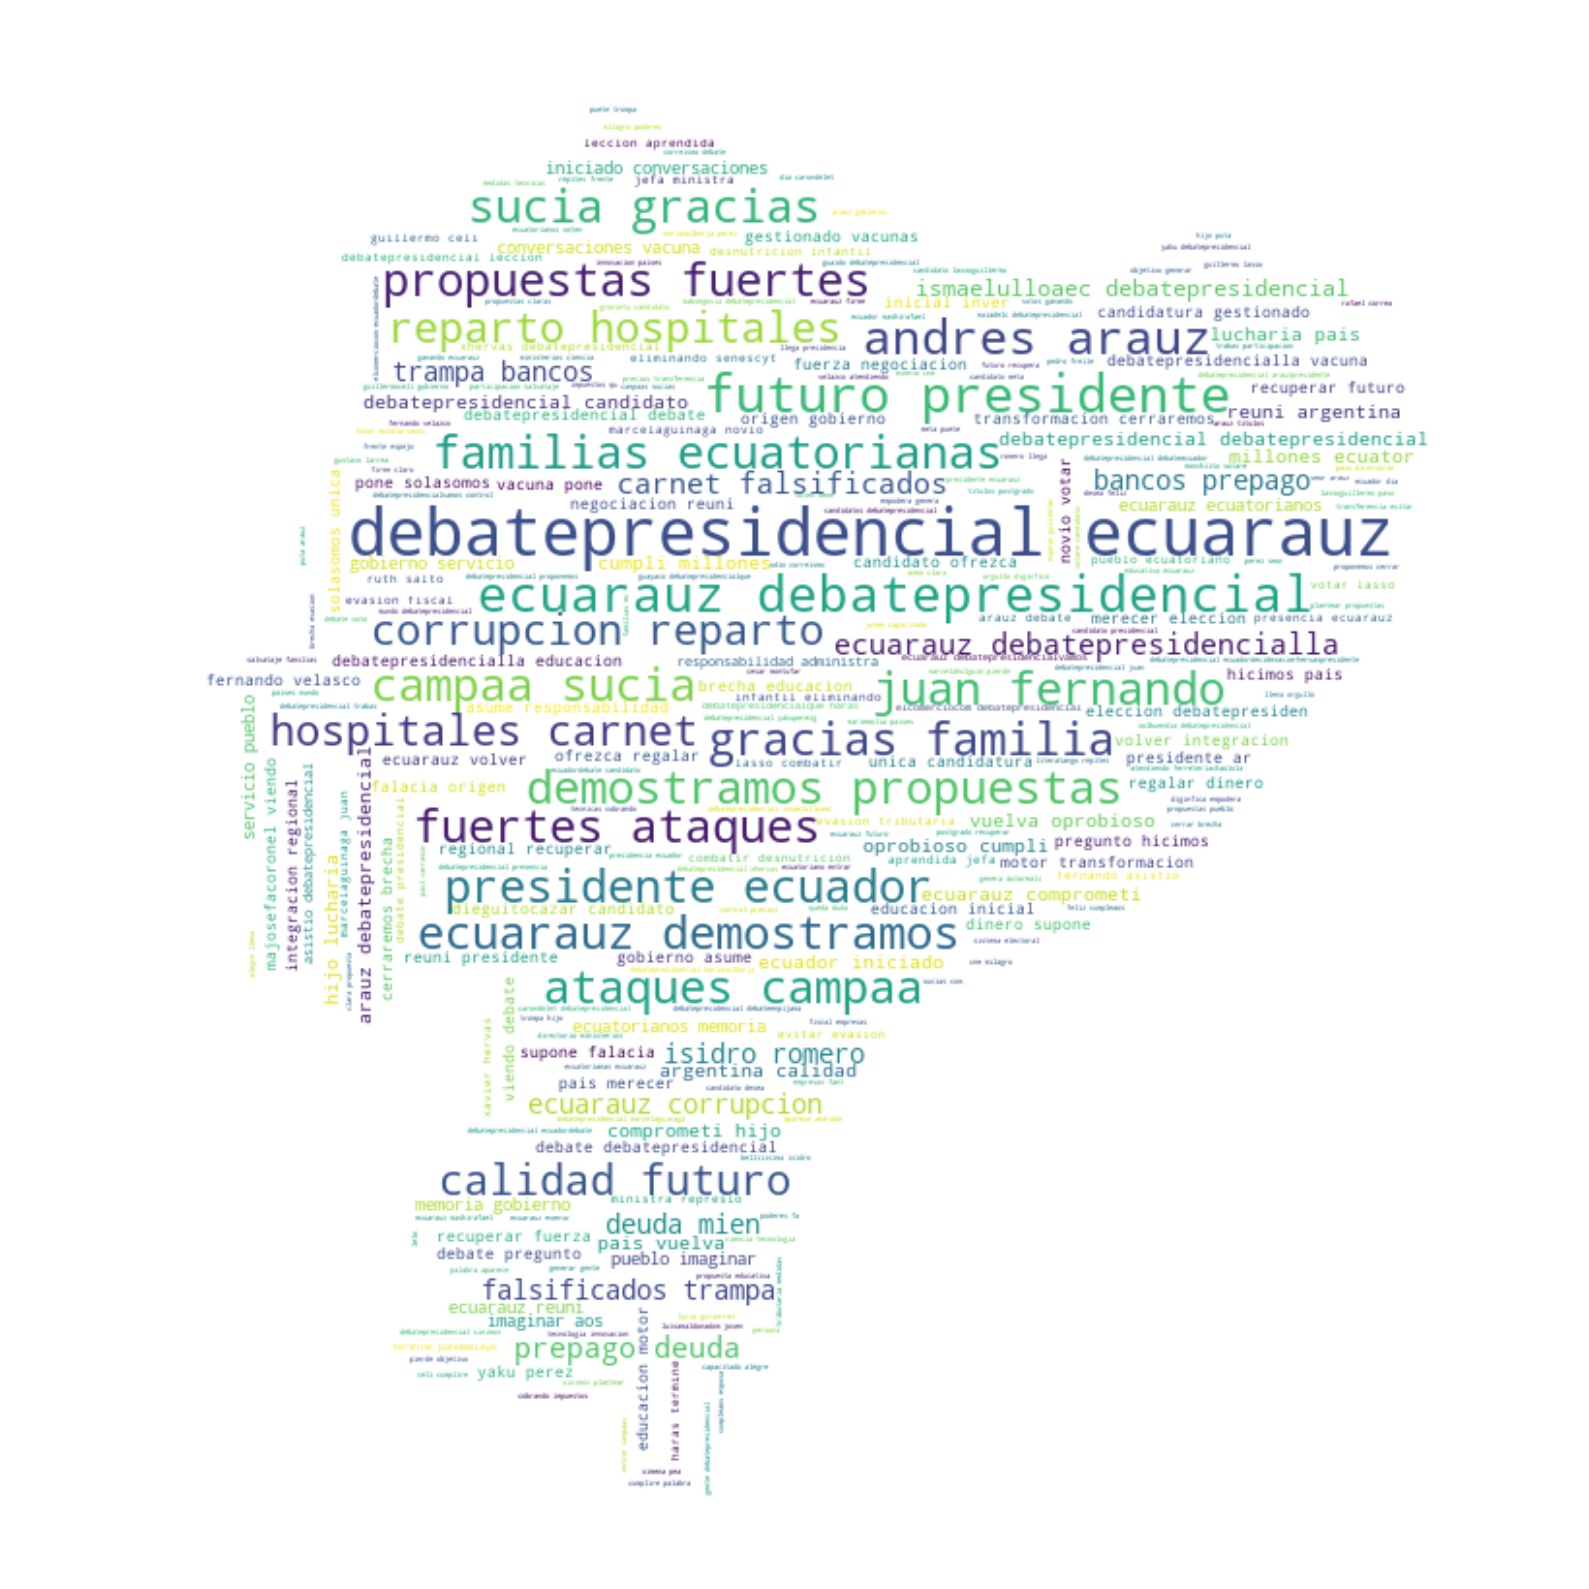
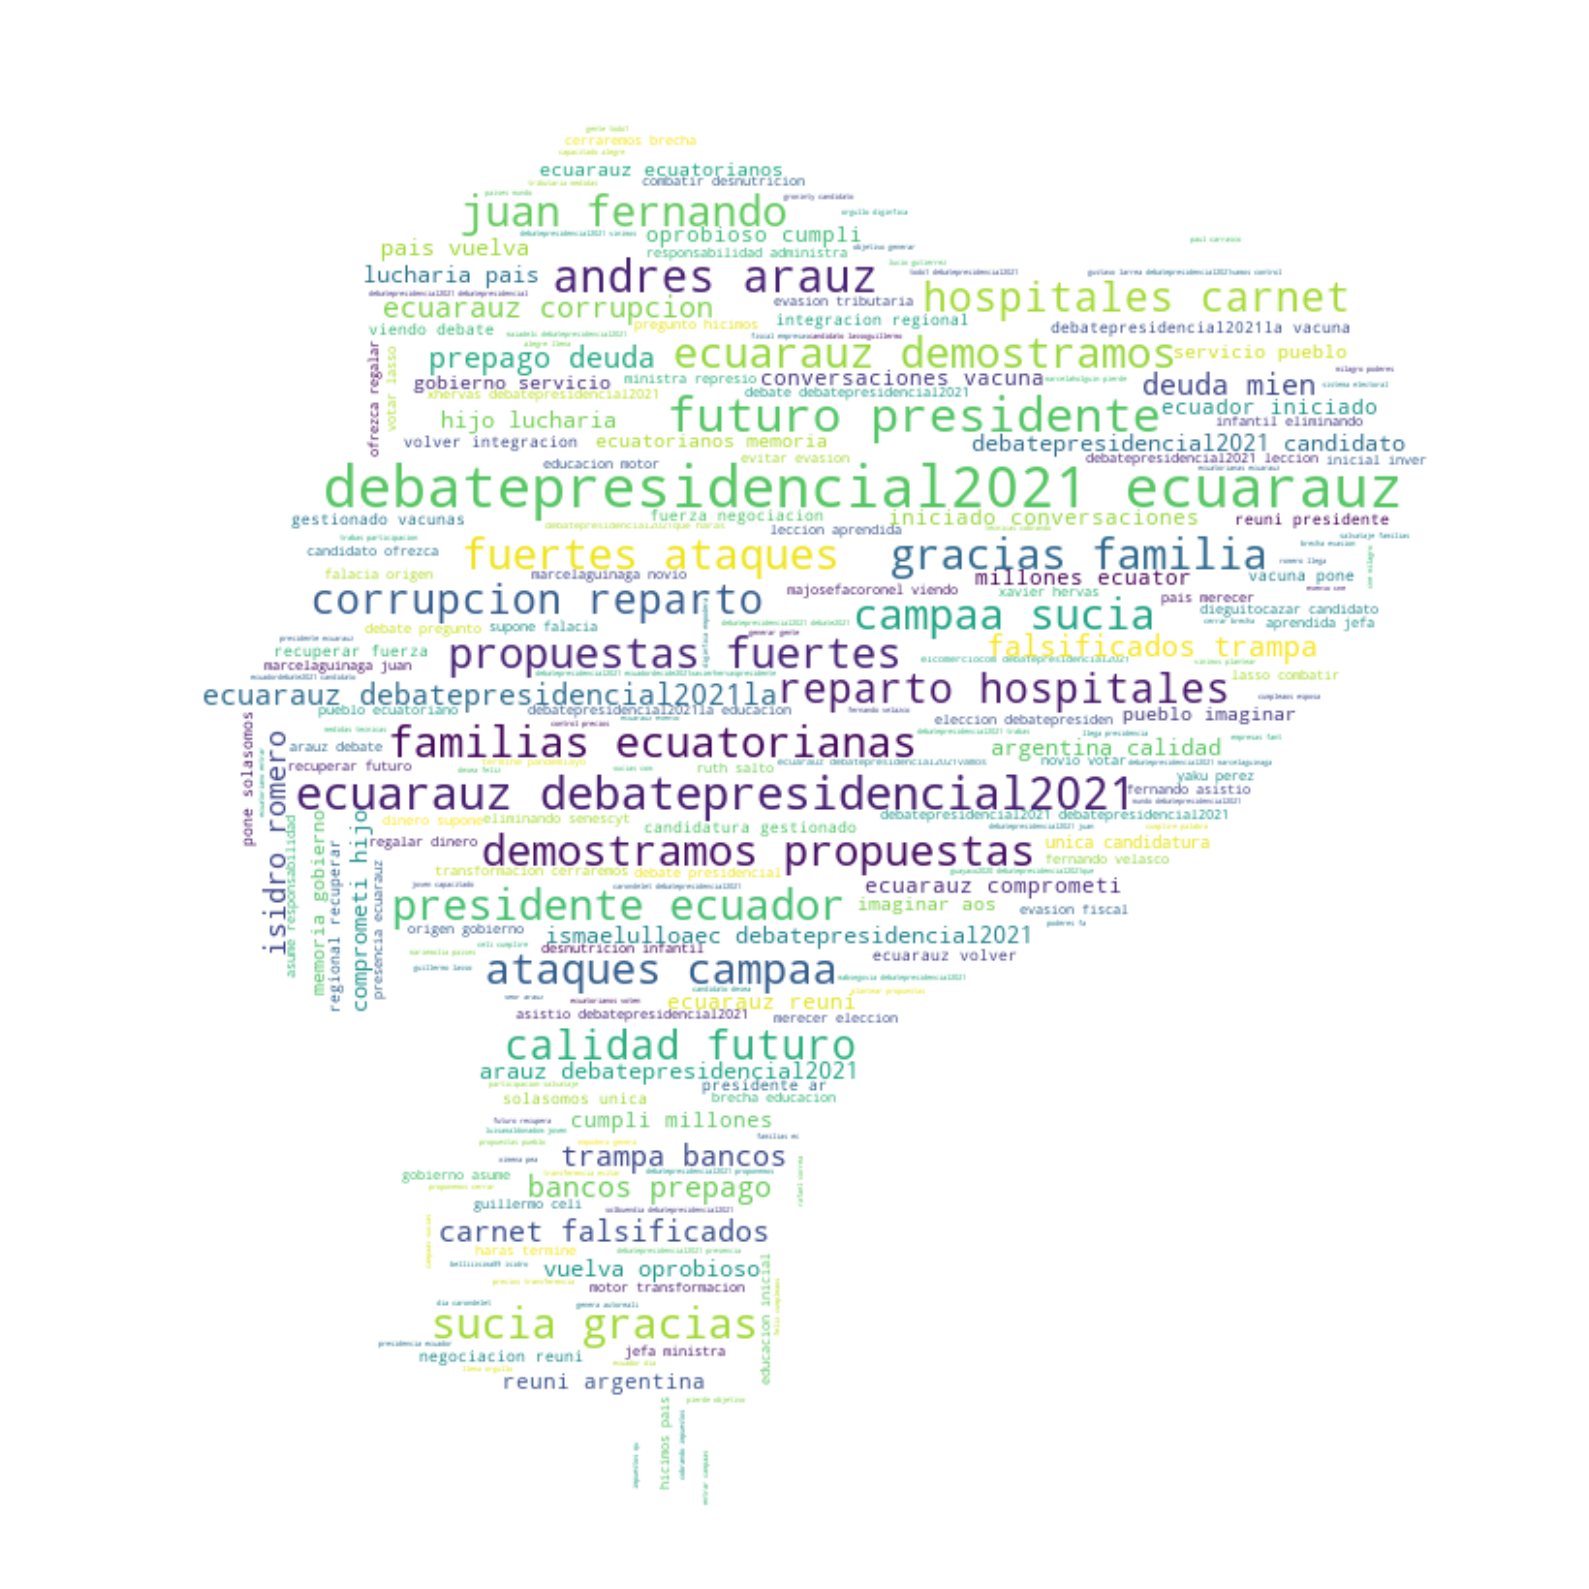
Mejoras wordcloud

Changed region(s): [[0.1233, 0.0617, 0.8943, 0.9559]]

diff --git a/analysis/utils.py b/analysis/utils.py
@@ -48,7 +48,7 @@ def get_wordcloud(list_serie_texto, social_networkd_name):
     raw_string = quitar_tildes(raw_string)
     no_links = re.sub(r'http\S+', '', raw_string)
     no_unicode = re.sub(r"\\[a-z][a-z]?[0-9]+", '', no_links)
-    no_special_characters = re.sub('[^A-Za-z ]+', '', no_unicode)
+    no_special_characters = re.sub('[^A-Za-z0-9 ]+', '', no_unicode)
     words = no_special_characters.lower().split(' ')
 
     # Create stopword list:
